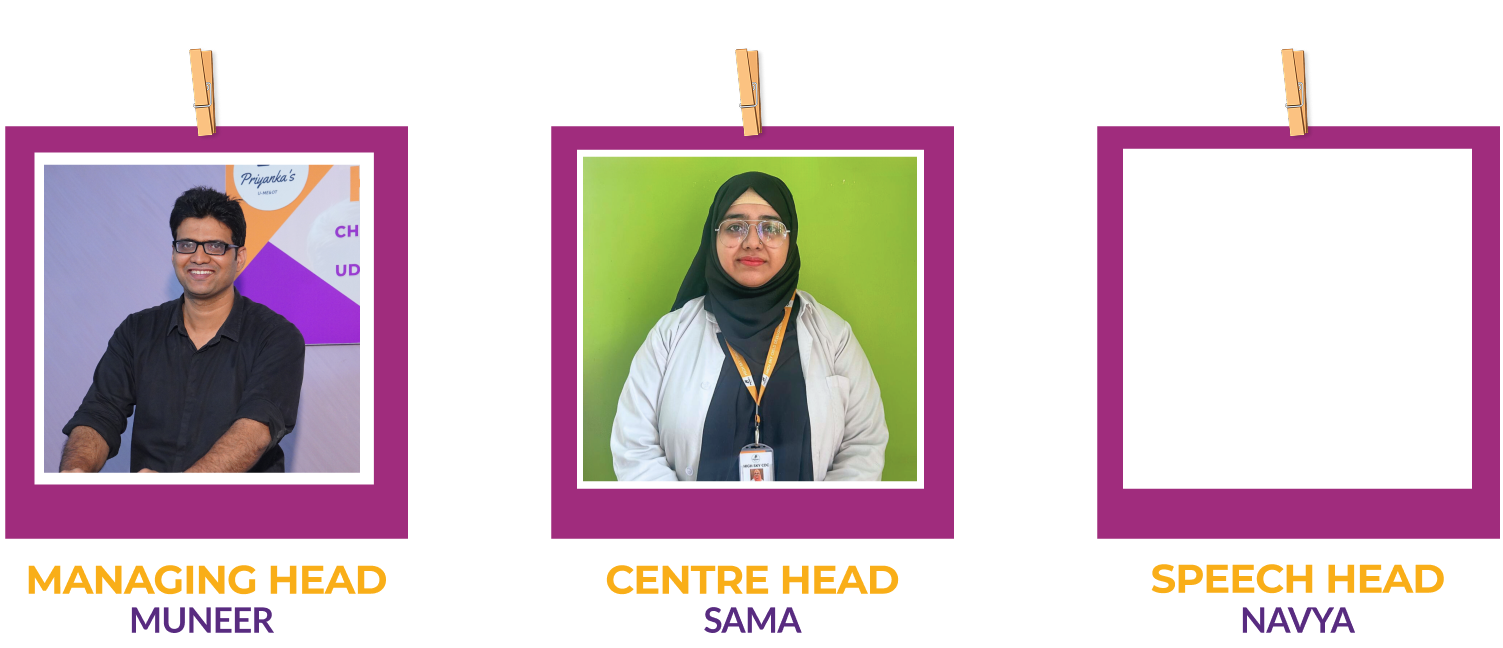
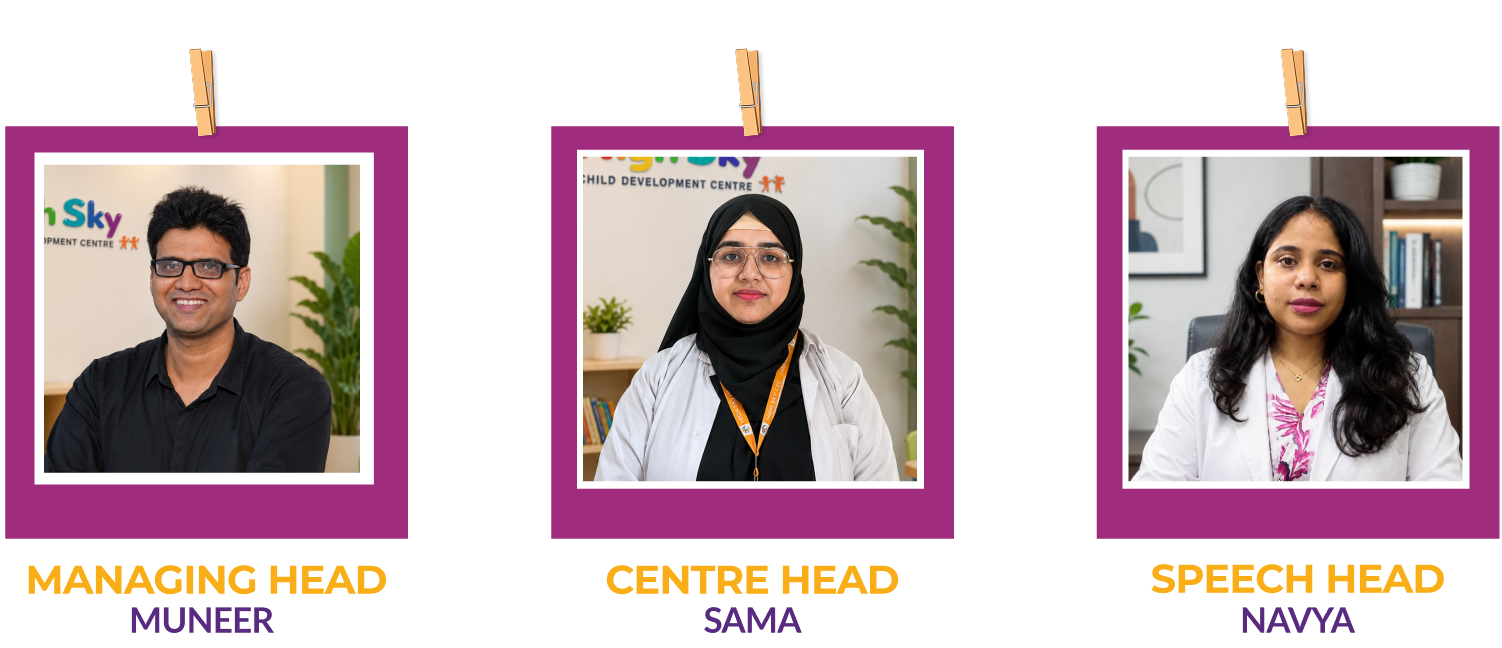
replaced team photos

diff --git a/src/pages/AboutUs.jsx b/src/pages/AboutUs.jsx
@@ -1,8 +1,8 @@
 import { useEffect, useState } from 'react';
 import './AboutUs.css';
-import frameA from '../assets/pages/about us/tmkc.png';
+import frameA from '../assets/pages/about us/img3.png';
 import frameB from '../assets/pages/about us/Frame 49.png';
-import frameC from '../assets/pages/about us/tmkb.png';
+import frameC from '../assets/pages/about us/img2.png';
 import swoosh from '../assets/pages/about us/Frame 48.png';
 import ribbon from '../assets/pages/about us/ribbon3.png';
 import frameDivider from '../assets/pages/home/Frame 21.svg';
